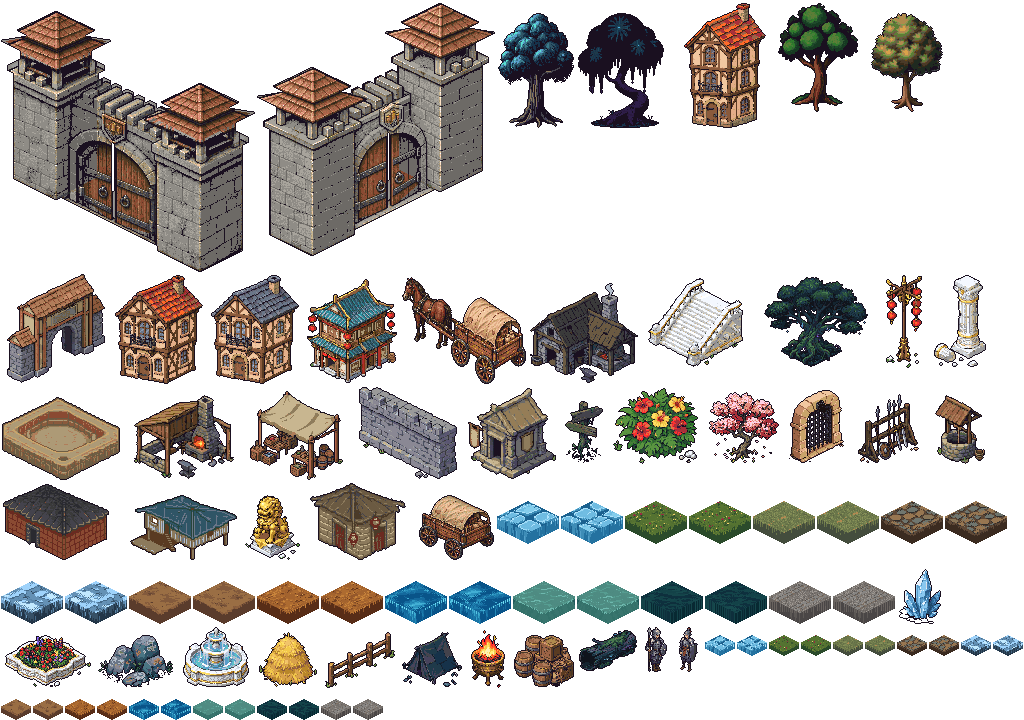
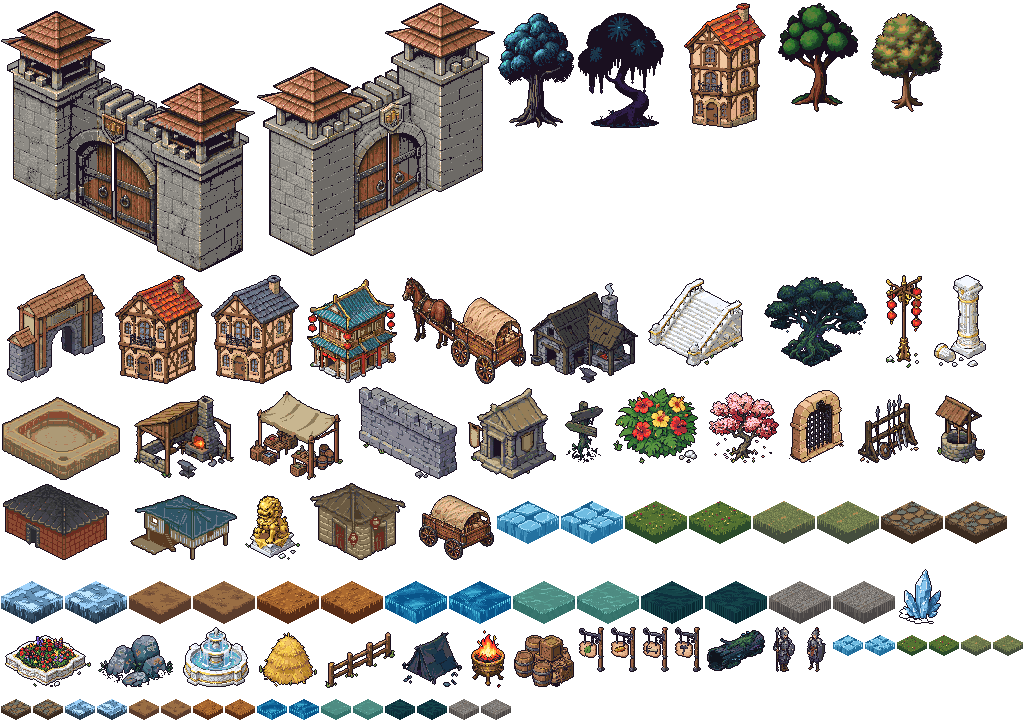
art: thêm bốn biển hiệu tiệm cho phố Nặc Đinh

Changed region(s): [[0.5625, 0.8556, 1.0, 0.9472], [0.0, 0.9778, 0.5, 1.0]]

diff --git a/art/src/nac-dinh-1722/bien-hieu/NGUON.md b/art/src/nac-dinh-1722/bien-hieu/NGUON.md
@@ -1,0 +1,15 @@
+# Biển hiệu Nặc Đinh Thành (#1722)
+
+Bốn biển do Codex tạo bằng OpenAI `image_gen.imagegen` ngày 03/11/2026. Biển rèn được vẽ mới; ba biển quán trọ, dược thảo và lò bánh chỉnh từ chính ảnh Codex đó để giữ cùng thiết kế. Không dùng ảnh phim hay gói ngoài. Giấy phép theo điều khoản đầu ra OpenAI, không CC0. Prompt thật ở `prompts.json`; hash RAW, sprite và neo chân ở `nguon.json`. RAW lưu ngoài repo trong artifacts của phiên.
+
+Mỗi biển gồm cột gỗ, giá sắt, hai dây xích và bảng gỗ có biểu tượng, không chữ. Khung cuối 32×48; neo đo ở chân cột thay vì tâm bảng treo; `flip:false`. Normal do công cụ sinh. Nền và quầng alpha được chuẩn hóa khi nhập.
+
+```sh
+node tools/assets/gemini-import.mjs --kind object --size 32x48 --cell 1 --logo off --grid 1x1 --palette gpl --names <ten> --out <tmp>/nhap <RAW>
+node tools/assets/iso-build.mjs prop <ten> <tmp>/nhap/<ten>.png --map nac_dinh_thanh --foot-x 16
+node tools/assets/normal.mjs shared/assets/sprites/iso/props/<ten>.png
+node tools/assets/iso-atlas.mjs
+node tools/assets/credits.mjs
+```
+
+`gemini-import.mjs` là tên công cụ nhập; nguồn là Codex. Gid 45 chỉ trong bộ Nặc Đinh đổi từ biển chỉ đường giữ chỗ sang bốn biến thể. Renderer chọn ổn định theo tọa độ; mười vị trí hiện có chứa đủ cả bốn biểu tượng. Không đổi `tools/maps/layouts/nac_dinh_thanh.json`, vị trí, lưới chặn hoặc tính đi xuyên của biển. Không sửa client/server hay công cụ.
